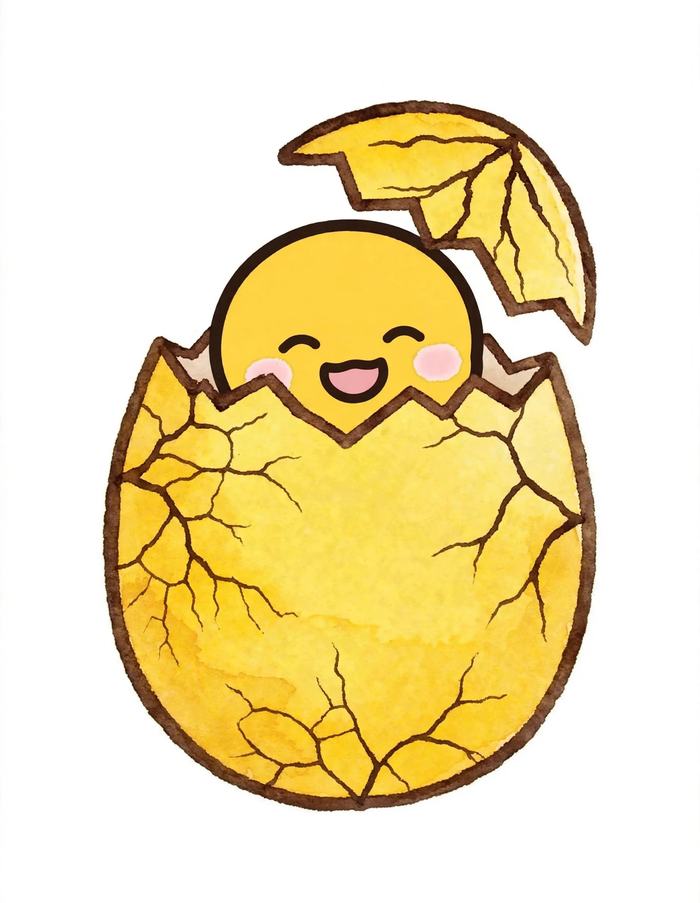
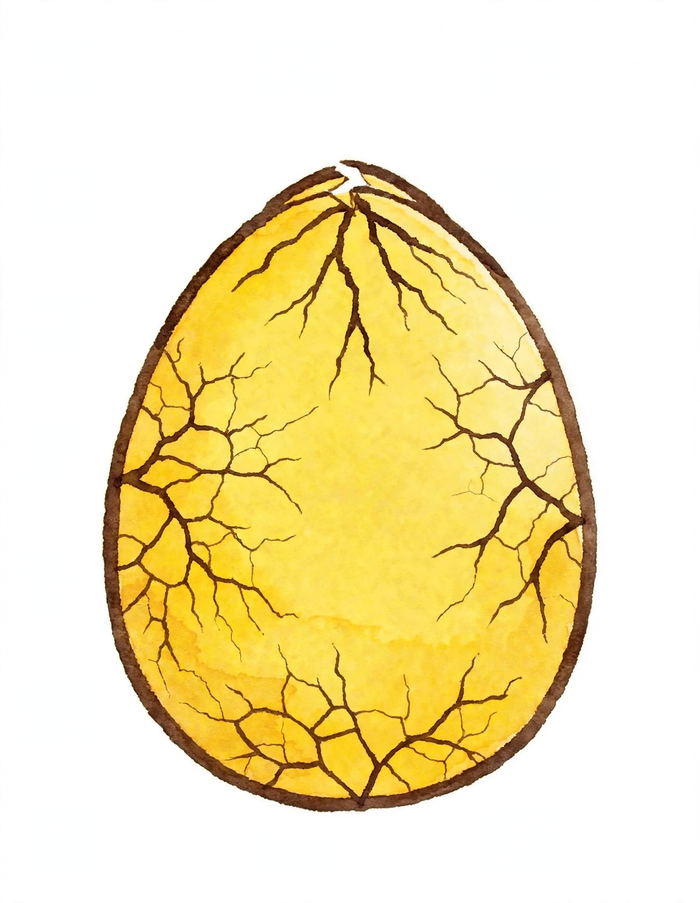
おもろグ〜の土台を用意（投稿ログ＋おもろボタン＋おもろっち育成）

Changed region(s): [[0.15, 0.093, 0.87, 0.8062], [0.27, 0.7132, 0.78, 0.8992], [0.66, 0.5271, 0.69, 0.5581]]

diff --git a/index.html b/index.html
@@ -99,6 +99,31 @@
   }
   .walker .jumpwrap{ display:block; }
   .walker img{ width:100%; display:block; }
+  /* 横長シーン表示（ベビー以上の wide 画像） */
+  .house-room.scene{
+    height:auto;
+    aspect-ratio:3 / 2;
+    background:#fff6d9;
+  }
+  .walker.scene-walker{
+    position:absolute; inset:0;
+    width:100%; height:100%;
+    min-height:0;
+  }
+  .walker.scene-walker .jumpwrap{ height:100%; }
+  .walker.scene-walker img{
+    width:100%; height:100%;
+    object-fit:cover;
+    transform:scale(1.04);
+  }
+  .walker .jumpwrap.sway{ animation:sway 5.5s ease-in-out infinite alternate; }
+  @keyframes sway{
+    from{ transform:translateX(-5px) rotate(-.4deg); }
+    to{ transform:translateX(5px) rotate(.4deg); }
+  }
+  @media (prefers-reduced-motion: reduce){
+    .walker .jumpwrap.sway{ animation:none; }
+  }
   .walker .jumpwrap.hop{ animation:hop .7s ease; }
   @keyframes hop{
     0%{ transform:translateY(0); }
@@ -131,6 +156,38 @@
   .next-row[hidden]{ display:none; }
   .next-row img{ width:34px; display:block; }
   .next-row b{ font-size:20px; color:var(--orange-dark); }
+
+  /* ===== すがたをえらぶ（到達済みステージのフォーム選択） ===== */
+  .form-row{
+    display:flex; gap:8px; flex-wrap:wrap;
+    margin-top:12px;
+  }
+  .form-pick{
+    position:relative;
+    width:52px; height:52px; min-width:48px; min-height:48px;
+    padding:2px;
+    border:3px solid var(--card-border); border-radius:14px;
+    background:#fff; cursor:pointer;
+    overflow:hidden;
+    -webkit-tap-highlight-color:transparent;
+  }
+  .form-pick img{
+    width:100%; height:100%;
+    object-fit:cover; object-position:top;
+    border-radius:9px; display:block;
+  }
+  .form-pick.sel{
+    border-color:var(--orange);
+    box-shadow:0 2px 0 rgba(120,50,0,.22);
+  }
+  .form-pick.locked{ cursor:default; }
+  .form-pick.locked img{ filter:grayscale(1); opacity:.38; }
+  .form-pick .lock{
+    position:absolute; inset:0;
+    display:flex; align-items:center; justify-content:center;
+    font-size:19px;
+    text-shadow:0 1px 2px rgba(255,255,255,.9);
+  }
 
   /* ===== おもろっちについて（ポップアップ） ===== */
   .about-link{
@@ -289,6 +346,7 @@
           <span class="jumpwrap" id="jumpWrap"><img id="stageImg" src="stage-egg-0.png" width="700" height="903" alt="おもろっち"></span>
         </button>
       </div>
+      <div class="form-row" id="formRow" aria-label="すがたをえらぶ"></div>
       <div class="progress">
         <p class="total-row"><img src="omorocchi-icon.png" width="512" height="512" alt=""><b id="totalCount">0</b></p>
         <div class="bar"><div id="barFill"></div></div>
@@ -338,19 +396,21 @@
   /* ===== 成長ステージ（閾値はここで調整できます） ===== */
   var STAGES = [
     { key:'egg',    name:'卵おもろっち',       img:'stage-egg-0.png',  min:0 },
-    { key:'baby',   name:'ベビーおもろっち',   img:'stage-baby.png',   min:10 },
-    { key:'kid',    name:'子供おもろっち',     img:'stage-kid.png',    min:30 },
-    { key:'adult',  name:'大人おもろっち',     img:'stage-adult.png',  min:100 },
+    { key:'baby',   name:'ベビーおもろっち',   img:'stage-baby.png',   wide:'wide-baby.png', min:10 },
+    { key:'kid',    name:'子供おもろっち',     img:'stage-kid.png',    wide:'wide-kid.png',  min:30 },
+    { key:'adult',  name:'大人おもろっち',     img:'stage-adult.png',  wide:'wide-adult.png', min:100 },
+    /* ダイダラの wide は新デザイン確定後に追加する（当面は縦絵のまま） */
     { key:'daidara', name:'ダイダラおもろっち', img:'stage-daidara.png', min:300 },
-    { key:'god',    name:'神おもろっち',       img:'stage-god.png',    min:800 }
+    { key:'god',    name:'神おもろっち',       img:'stage-god.png',    wide:'wide-god.png',  min:800 }
   ];
 
   /* 卵ステージの中の「割れていく過程」（合計おもろで切り替え） */
   var EGG_CRACKS = [
-    { max:2, img:'stage-egg-0.png' },  /* 0〜2：ヒビなし */
-    { max:5, img:'stage-egg-1.png' },  /* 3〜5：小さなヒビ */
-    { max:8, img:'stage-egg-2.png' },  /* 6〜8：ヒビが大きく広がる */
-    { max:9, img:'stage-egg-3.png' }   /* 9：割れそうでベビーが半分見える */
+    { max:1, img:'stage-egg-0.png' },  /* 0〜1：ヒビなし */
+    { max:3, img:'stage-egg-1.png' },  /* 2〜3：小さなヒビ */
+    { max:5, img:'stage-egg-2.png' },  /* 4〜5：ヒビが大きく広がる */
+    { max:7, img:'stage-egg-3.png' },  /* 6〜7：ヒビ最大・殻が少し開きかける */
+    { max:9, img:'stage-egg-4.png' }   /* 8〜9：割れそうでベビーが半分見える */
   ];
   /* 割れ具合の画像を先読みして、切り替え時のちらつきを防ぐ */
   for (var pre = 0; pre < EGG_CRACKS.length; pre++) { var preImg = new Image(); preImg.src = EGG_CRACKS[pre].img; }
@@ -379,6 +439,12 @@
   var maxRow = document.getElementById('maxRow');
   var currentStage = -1;
   var currentImg = '';
+  var currentDisp = -1;
+  var sceneMode = false;
+
+  /* 選んだ姿（到達済みステージの中から選択、localStorageに保存） */
+  var formKey = null;
+  try { formKey = localStorage.getItem('omoro-form') || null; } catch(e) {}
 
   function stageOf(t){
     var idx = 0;
@@ -391,6 +457,14 @@
     for (var i = 0; i < EGG_CRACKS.length; i++) { if (t <= EGG_CRACKS[i].max) return EGG_CRACKS[i].img; }
     return EGG_CRACKS[EGG_CRACKS.length - 1].img;
   }
+  /* おうちに表示する姿：選んだ姿が到達済みならそれ、なければ現在のステージ */
+  function dispIndex(idx){
+    if (!formKey) return idx;
+    for (var i = 0; i < STAGES.length; i++) {
+      if (STAGES[i].key === formKey) return i <= idx ? i : idx;
+    }
+    return idx;
+  }
   function hop(){
     jumpWrap.classList.remove('hop');
     void jumpWrap.offsetWidth;
@@ -399,12 +473,43 @@
   jumpWrap.addEventListener('animationend', function(){ jumpWrap.classList.remove('hop'); });
   walker.addEventListener('click', hop);
 
+  /* ===== すがたをえらぶ（サムネイル行） ===== */
+  var formRow = document.getElementById('formRow');
+  var formBtns = [];
+  STAGES.forEach(function(s, i){
+    var b = document.createElement('button');
+    b.type = 'button';
+    b.className = 'form-pick';
+    b.innerHTML = '<img src="' + s.img + '" width="700" height="903" alt=""><span class="lock" aria-hidden="true">🔒</span>';
+    b.addEventListener('click', function(){
+      if (i > stageOf(total)) return;
+      formKey = STAGES[i].key;
+      try { localStorage.setItem('omoro-form', formKey); } catch(e) {}
+      renderGrowth(false);
+    });
+    formRow.appendChild(b);
+    formBtns.push(b);
+  });
+  function paintForms(idx, dispIdx){
+    for (var i = 0; i < formBtns.length; i++) {
+      var reached = i <= idx;
+      formBtns[i].classList.toggle('locked', !reached);
+      formBtns[i].classList.toggle('sel', i === dispIdx);
+      formBtns[i].disabled = !reached;
+      formBtns[i].querySelector('.lock').style.display = reached ? 'none' : 'flex';
+      formBtns[i].setAttribute('aria-label', STAGES[i].name + (reached ? '' : '（まだ）'));
+    }
+  }
+
   function renderGrowth(pop){
     var idx = stageOf(total);
     var st = STAGES[idx];
-    var img = stageImgOf(idx, total);
+    var dispIdx = dispIndex(idx);
+    var dst = STAGES[dispIdx];
+    var img = stageImgOf(dispIdx, total);
     totalEl.textContent = total;
     toggleThumb.src = img;
+    /* 進捗バーと「あと◯」は合計おもろ基準（フォーム選択とは独立） */
     if (idx < STAGES.length - 1) {
       var next = STAGES[idx + 1];
       var pct = Math.floor((total - st.min) / (next.min - st.min) * 100);
@@ -418,12 +523,31 @@
       nextRow.hidden = true;
       maxRow.hidden = false;
     }
-    if (img !== currentImg) {
-      stageImg.src = img;
-      currentImg = img;
+    /* おうちの表示：wide がある姿は横長シーン、ない姿は縦絵 */
+    var himg = dst.wide || img;
+    sceneMode = !!dst.wide;
+    room.classList.toggle('scene', sceneMode);
+    walker.classList.toggle('scene-walker', sceneMode);
+    jumpWrap.classList.toggle('sway', sceneMode);
+    if (sceneMode) {
+      stopWalk();
+      walker.style.left = '';
+      stageImg.style.transform = '';
+    } else if (!panel.hidden) {
+      startWalk();
     }
+    if (himg !== currentImg) {
+      stageImg.src = himg;
+      if (sceneMode) { stageImg.setAttribute('width', '1200'); stageImg.setAttribute('height', '800'); }
+      else { stageImg.setAttribute('width', '700'); stageImg.setAttribute('height', '903'); }
+      currentImg = himg;
+    }
+    if (dispIdx !== currentDisp) {
+      stageImg.alt = dst.name;
+      currentDisp = dispIdx;
+    }
+    paintForms(idx, dispIdx);
     if (idx !== currentStage) {
-      stageImg.alt = st.name;
       if (currentStage >= 0 && pop) hop();
       currentStage = idx;
     }
@@ -433,6 +557,7 @@
   var reduceMotion = window.matchMedia && window.matchMedia('(prefers-reduced-motion: reduce)').matches;
   var walkRaf = null, walkLast = 0, walkX = 8, walkDir = 1;
   function walkStep(ts){
+    if (sceneMode) { stopWalk(); return; }
     if (!walkLast) walkLast = ts;
     var dt = Math.min(0.05, (ts - walkLast) / 1000);
     walkLast = ts;
@@ -457,7 +582,7 @@
     var open = panel.hidden;
     panel.hidden = !open;
     toggleBtn.setAttribute('aria-expanded', open ? 'true' : 'false');
-    if (open) startWalk(); else stopWalk();
+    if (open) { if (!sceneMode) startWalk(); } else stopWalk();
   });
 
   /* ===== おもろっちについて（ポップアップ） ===== */
